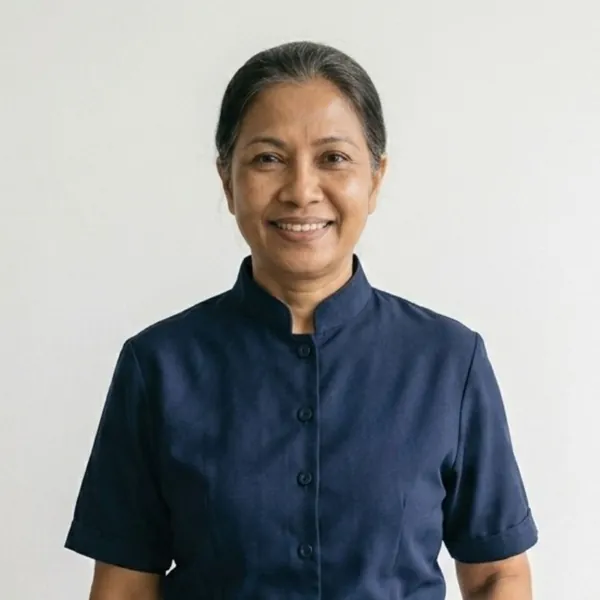
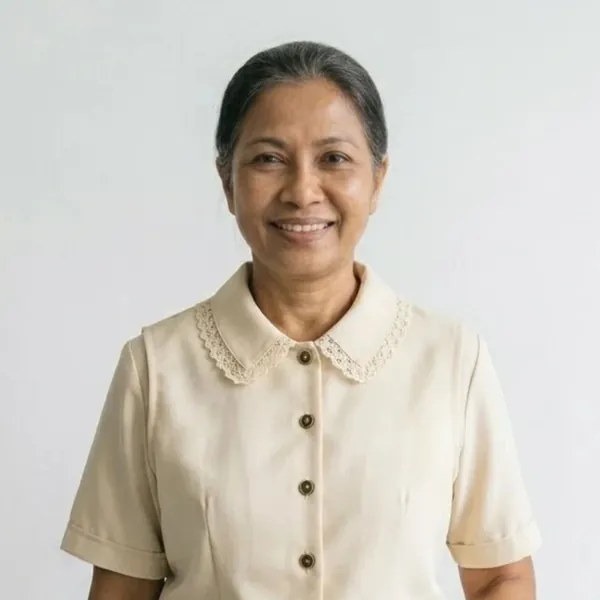
Hero: new Malaysia photo (beige uniform)

diff --git a/landing-pages/index.html b/landing-pages/index.html
@@ -107,7 +107,7 @@
 
     <div class="hero-visual">
       <div class="globe"></div>
-      <div class="portrait p1"><img src="images/home/hero-malaysia.webp" width="600" height="600" alt="Smiling cleaner in a navy uniform and white apron holding a cloth and spray bottle, representing workers from Malaysia" title="Workers from Malaysia" decoding="async"><span class="tag" aria-hidden="true">Malaysia</span></div>
+      <div class="portrait p1"><img src="images/home/hero-malaysia.webp" width="600" height="600" alt="Smiling cleaner in a beige uniform with a lace collar and brown apron, holding a cloth and spray bottle, representing workers from Malaysia" title="Workers from Malaysia" decoding="async"><span class="tag" aria-hidden="true">Malaysia</span></div>
       <div class="portrait p2"><img src="images/home/hero-prc.webp" width="600" height="600" alt="Smiling cleaner in a green SuperClean SG uniform, representing workers from PRC" title="Workers from PRC" decoding="async"><span class="tag" aria-hidden="true">PRC</span></div>
       <div class="portrait p3 big"><img src="images/home/hero-myanmar.webp" width="600" height="600" alt="Smiling young construction worker in a yellow hard hat and orange safety vest, representing workers from Myanmar" title="Workers from Myanmar" decoding="async"><span class="tag" aria-hidden="true">Myanmar</span></div>
       <div class="portrait p4"><img src="images/home/hero-bangladesh.webp" width="600" height="600" alt="Smiling construction worker in a yellow hard hat and orange safety vest, representing workers from Bangladesh" title="Workers from Bangladesh" decoding="async"><span class="tag" aria-hidden="true">Bangladesh</span></div>

diff --git a/CLAUDE.md b/CLAUDE.md
@@ -15,7 +15,7 @@ landing-pages/        THE ONLY FOLDER THAT GETS DEPLOYED
   images/home/*.webp    homepage photos
 process/              design-system.html (internal only, never deployed) + design-system-img/ + snippets/
 scripts/python/       capture.py · mobile_audit.py · ds_shots.py · build_preview.py · strips.py
-output/               backups/v1 … v32 and screenshots: local only, ignored by git
+output/               backups/v1 … v33 and screenshots: local only, ignored by git
 ```
 A new page would go in `landing-pages/<page-slug>/index.html`. Nothing else belongs at the root.
 
